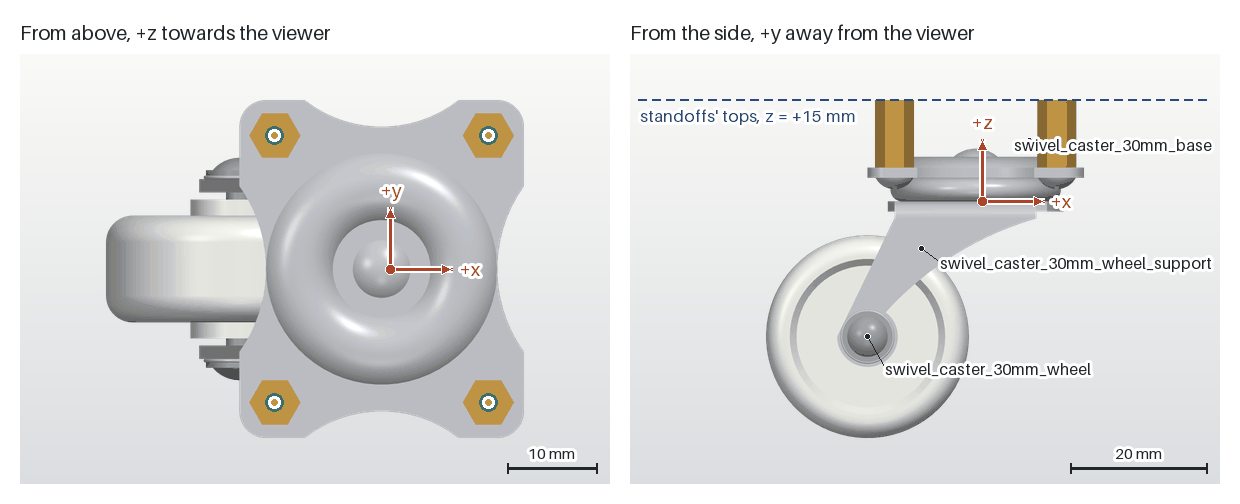
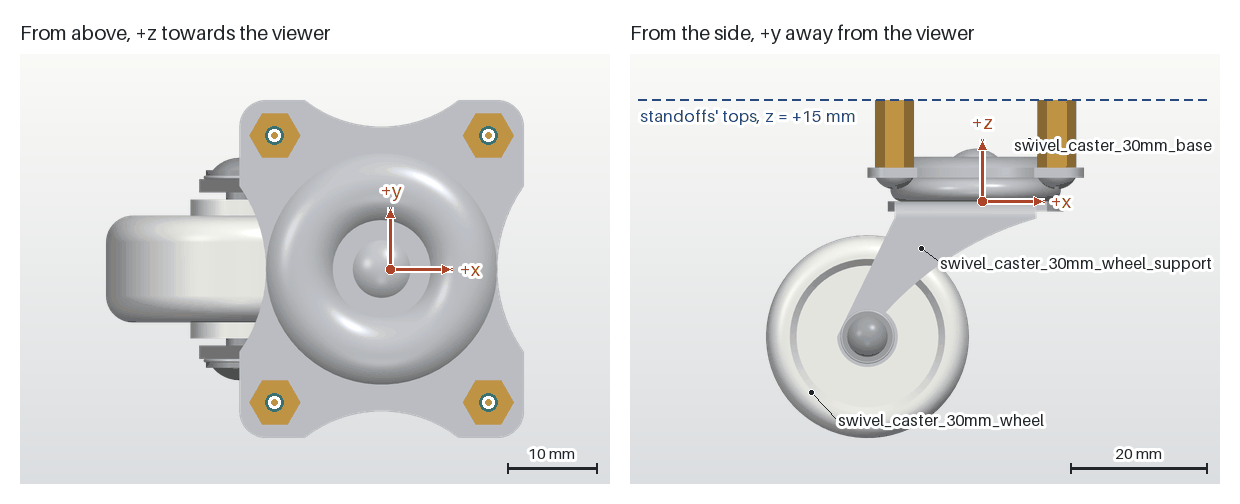
Frame picture: the caster's wheel label ends on the wheel
The line of the label "swivel_caster_30mm_wheel" ended at the axle's
centre, on the axle's rivet head, which belongs to the fork's mesh.
The line now ends on the wheel's white side, below the axle and clear
of the fork's arm. The three labels' end points have names that say
which place of each mesh they are.

Changed region(s): [[0.7048, 0.7143, 0.8887, 0.7738], [0.6742, 0.8036, 0.8581, 0.8631]]

diff --git a/scripts/render_frames.py b/scripts/render_frames.py
@@ -122,12 +122,19 @@ def caster_figure() -> FrameFigure:
     holes = [(caster.SWIVEL_AXIS_X + x_sign * caster.PLATE_HOLES[0],
               y_sign * caster.PLATE_HOLES[1], top) for x_sign in (-1, 1) for y_sign in (-1, 1)]
     axle_x = caster.SWIVEL_AXIS_X + caster.AXLE_X
+    # Where each label's line ends, on a place of its own mesh that the side view shows: the
+    # base at the plate's front end, the fork on an arm between the cup and the axle, the
+    # wheel on its white side below the axle, clear of the arm and of the axle's rivet
+    on_base = (caster.SWIVEL_AXIS_X + 8.0, 0.0, 9.0)
+    on_fork = (-9.0, 0.0, -7.0)
+    below_axle = 0.55 * caster.WHEEL_RADIUS
+    on_wheel = (axle_x - below_axle, 0.0, caster.AXLE_Z - below_axle)
     return FrameFigure(
         (TOP_VIEW, SIDE_VIEW), holes,
         [Plane(f"standoffs' tops, z = +{top:g} mm", Z_AXIS, top)],
-        [Label('swivel_caster_30mm_base', (caster.SWIVEL_AXIS_X + 8.0, 0.0, 9.0), (10, -6)),
-         Label('swivel_caster_30mm_wheel_support', (-9.0, 0.0, -7.0), (22, 4)),
-         Label('swivel_caster_30mm_wheel', (axle_x, 0.0, caster.AXLE_Z), (18, 22))])
+        [Label('swivel_caster_30mm_base', on_base, (10, -6)),
+         Label('swivel_caster_30mm_wheel_support', on_fork, (22, 4)),
+         Label('swivel_caster_30mm_wheel', on_wheel, (26, 18))])
 
 
 def scanner_figure() -> FrameFigure:
